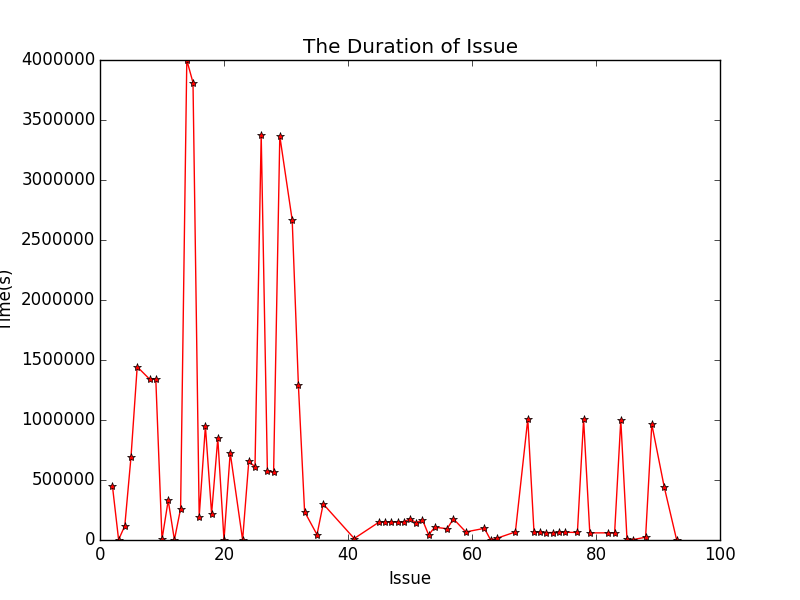
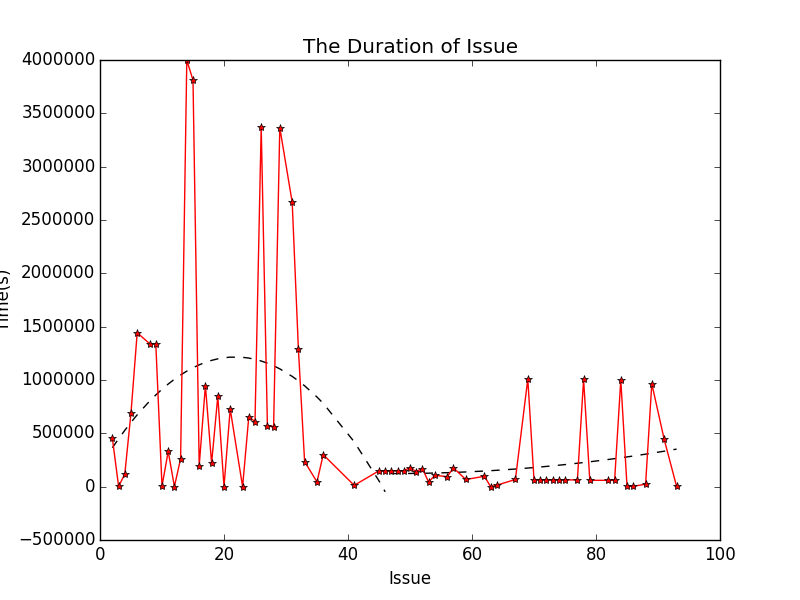
new method

diff --git a/earlywarning/earlyWarningExtractorDuration.py b/earlywarning/earlyWarningExtractorDuration.py
@@ -2,16 +2,13 @@ import json
 from pprint import pprint
 import matplotlib.pyplot as plt
 import numpy as np
-
+from pylab import *
 with open('duration3.json') as data_file:    
     data = json.load(data_file)
 
 keylist=map(int,data.keys())
 keylist.sort()
         
-            
-print data
-
 plt.xlabel('Issue')
 plt.ylabel('Time(s)')
 plt.title('The Duration of Issue')
@@ -21,8 +18,21 @@ for i in keylist:
     xa.append(i)
     ya.append(data[str(i).encode('utf-8')])
 
+len1=len(xa)
+len2=len(ya)
+xap=[xa[:len1/2], xa[len1/2:]]
+yap=[ya[:len2/2], ya[len2/2:]]
+for i in range(2):
+    tempx=xap[i]
+    tempy=yap[i]
+    m,b = polyfit(tempx, tempy, 1)
+    fit=polyfit(tempx,tempy,2)
+    fit_fn=poly1d(fit)
+    plt.plot(tempx, fit_fn(tempx), '--k') 
+
 sumtime=0
 timethreshold=60*60*24*12
+print('method 1')
 for i in range(0,len(xa)-1,1):
     if ya[i]>2000000:
         sumtime=sumtime+ya[i]
@@ -31,5 +41,18 @@ for i in range(0,len(xa)-1,1):
     if sumtime>timethreshold:
         print('The team may be struggling at this moment, issue: '+str(i))
         sumtime=0
+print('-------------------------------')
+print('method 2')
+km=list()
+for i in range(8,len(xa)-1,1):
+    tempx=xa[(i-8):i]
+    tempy=ya[(i-8):i]
+    m,b = polyfit(tempx, tempy, 1)
+    fit=polyfit(tempx,tempy,1)
+    fit_fn=poly1d(fit)
+    if m>150000:
+        print('The team may be waiting at this moment, issue: '+str(i))
+    km.append(m)
+print(km)
 plt.plot(xa,ya,'r*-')
 plt.show()
